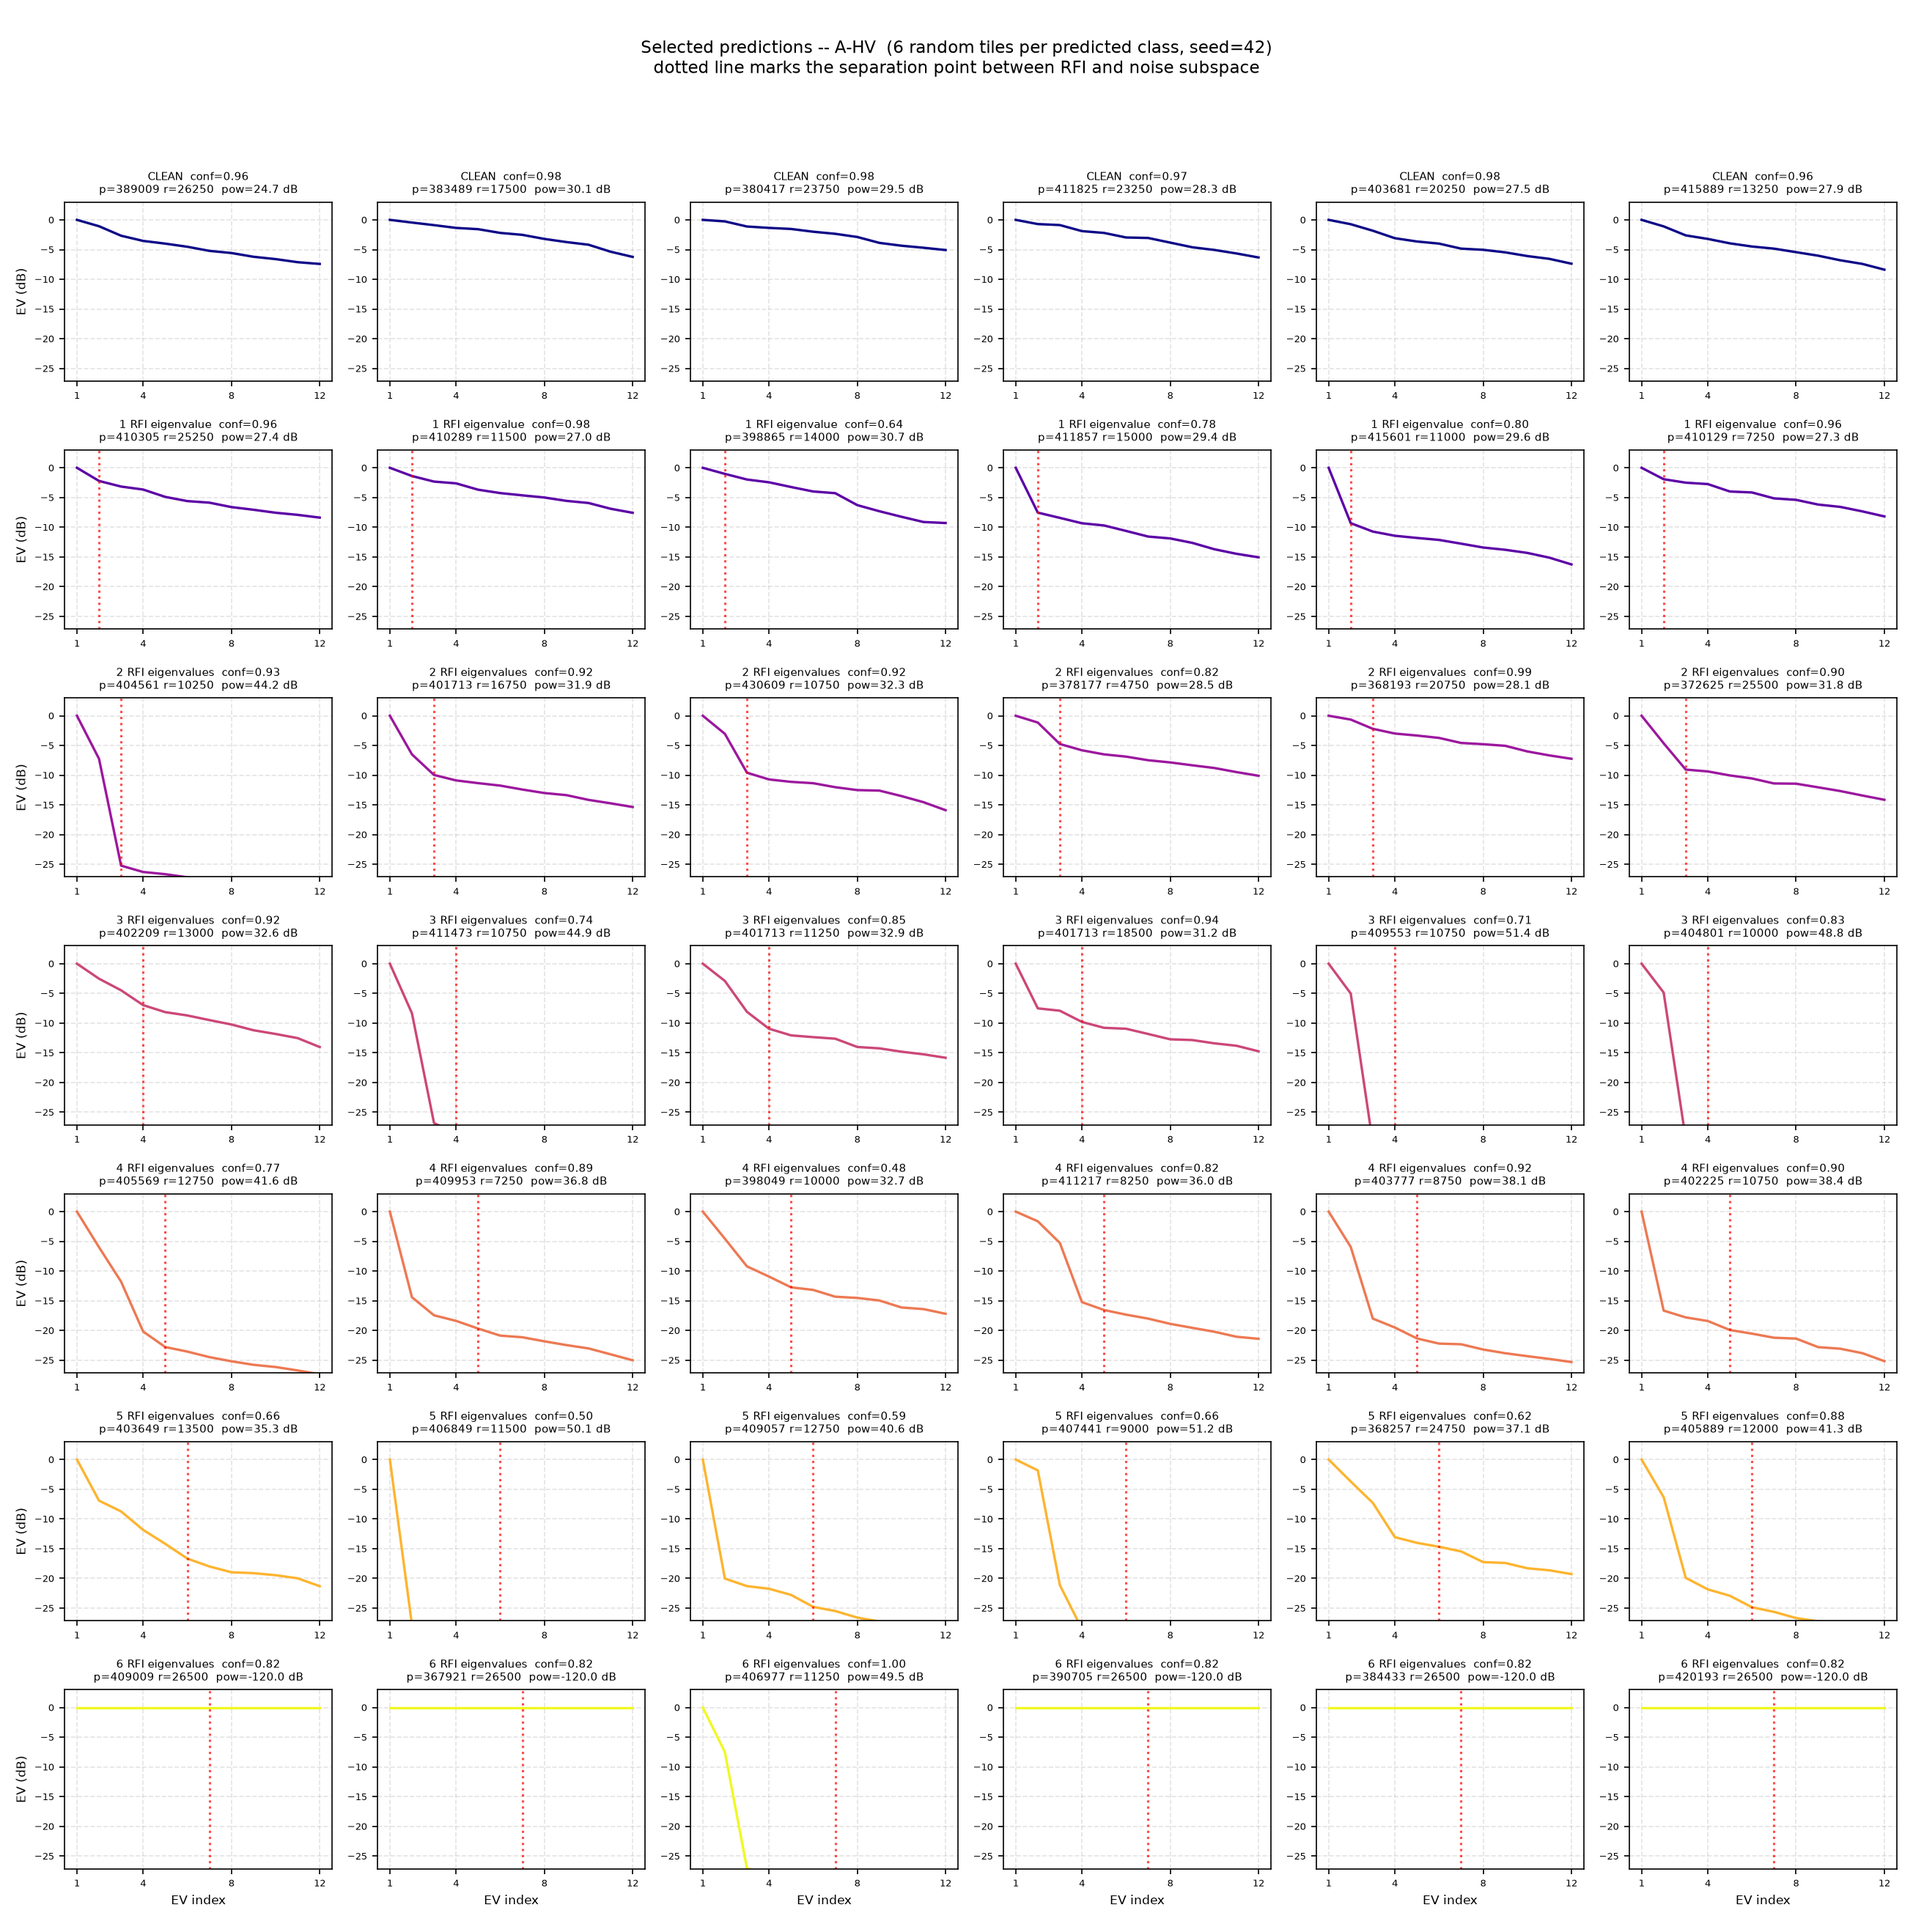
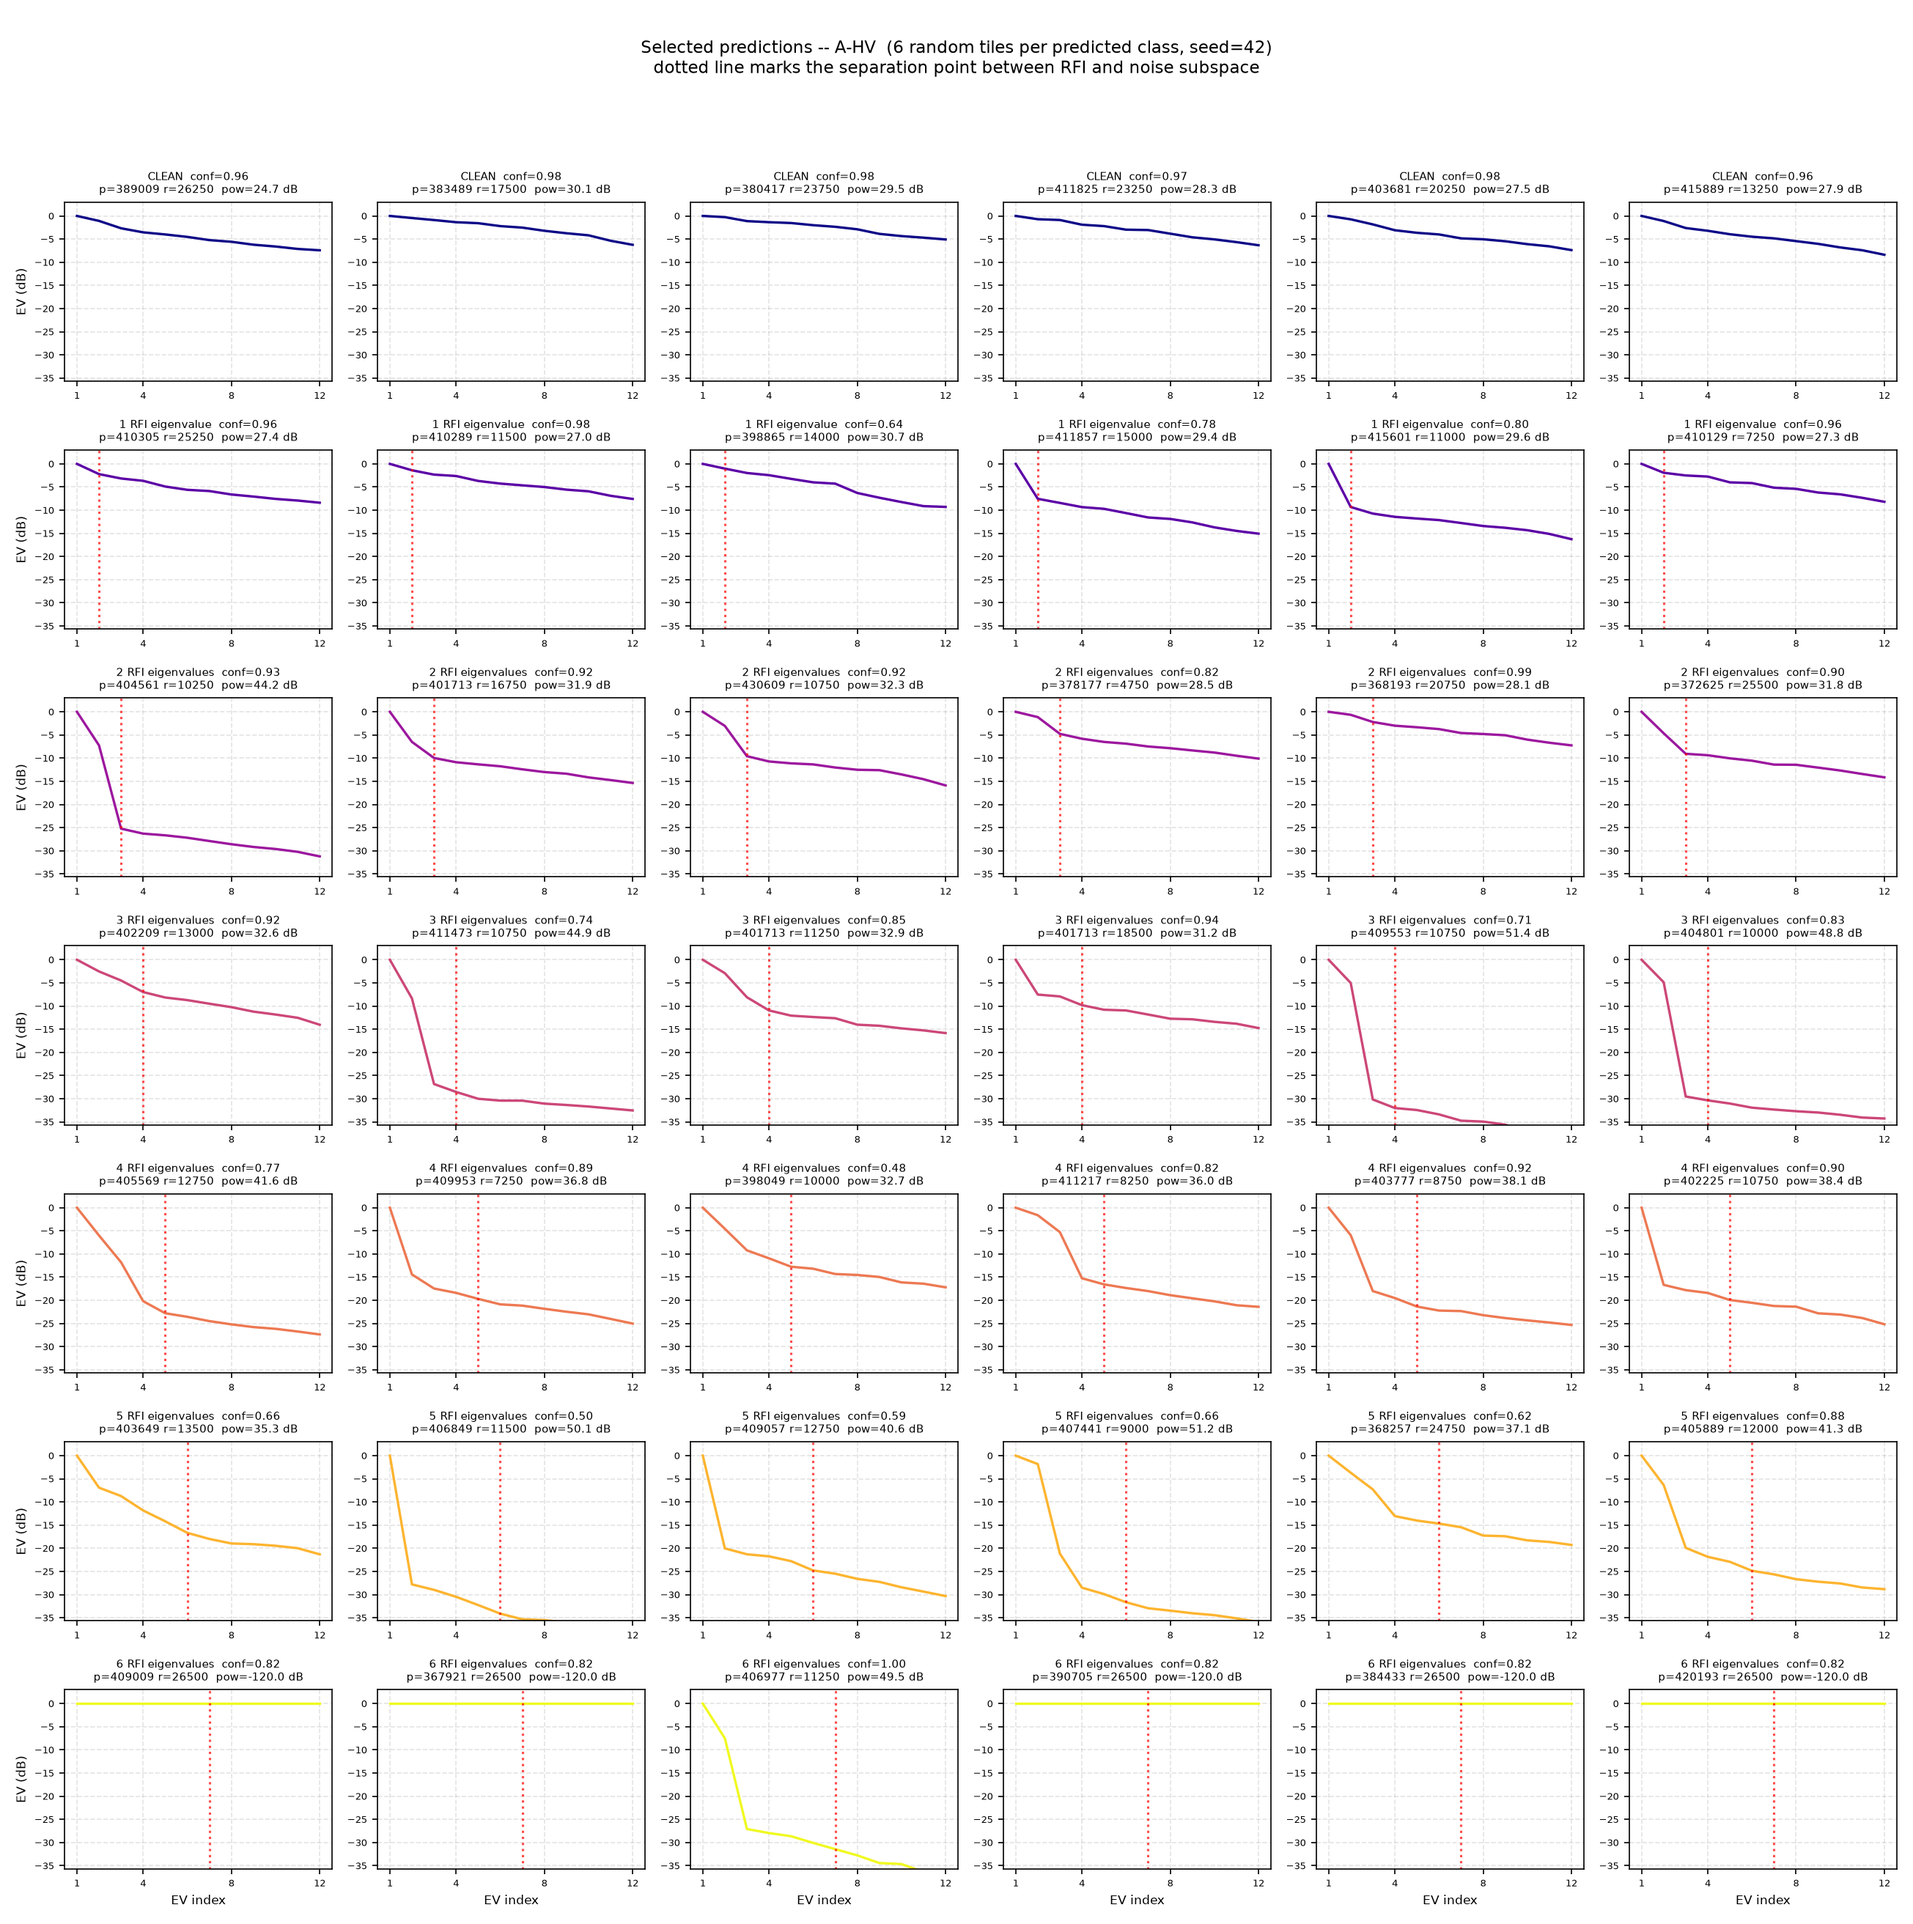
fix plotter

diff --git a/replot_predictions.py b/replot_predictions.py
@@ -391,7 +391,8 @@ def plot_selected_predictions(rec, out_dir, n_per_class, seed):
     cmap = cm.plasma
 
     sample_all = ev_db[rng.choice(len(knee), size=min(5000, len(knee)), replace=False)]
-    ylim = [float(np.percentile(sample_all, 0.5)) - 3.0, 3.0]
+    # Extend y-limits to ensure all 12 eigenvalues are visible
+    ylim = [float(np.percentile(sample_all.ravel(), 0.1)) - 5.0, 3.0]
 
     n_rows, n_cols = len(present), n_per_class
     fig, axes = plt.subplots(n_rows, n_cols,
